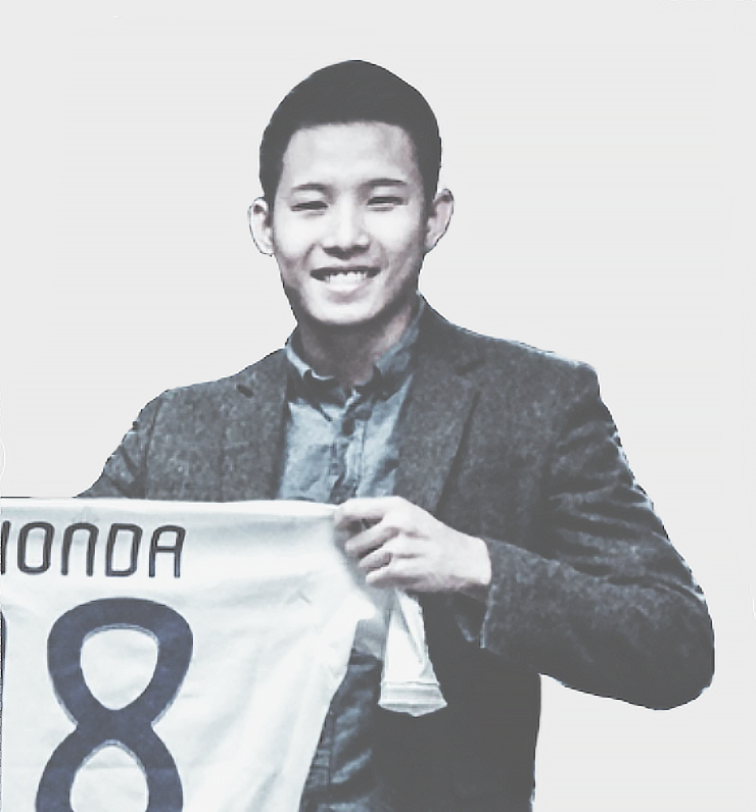
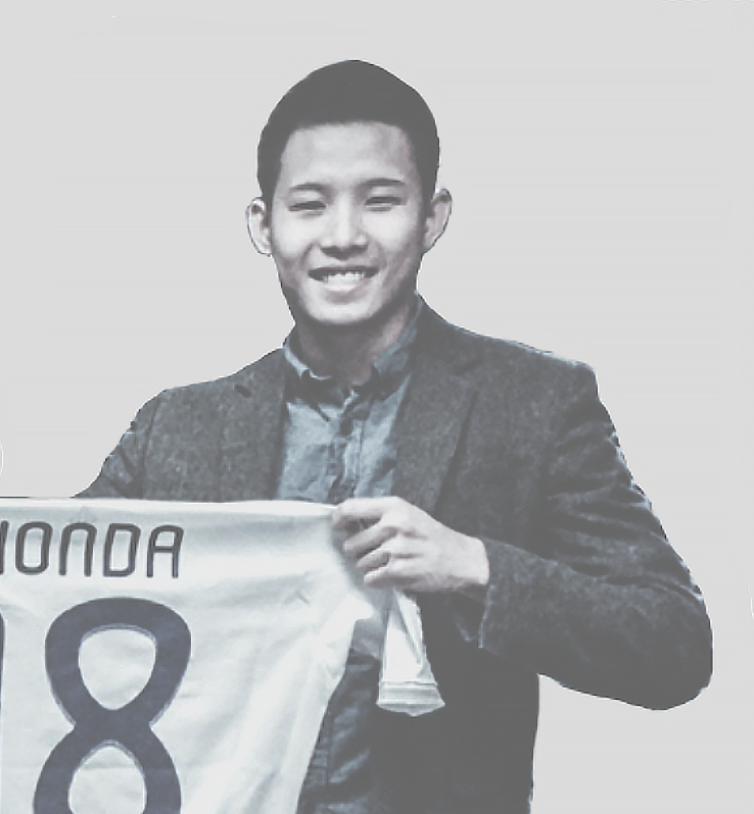
adjusted photo

diff --git a/index.html b/index.html
@@ -42,7 +42,7 @@
     <br>
     <br>
     <h3 id="h3-top"></h3>
-    <img src="image/pic3.png" class="img-circle img-responsive" alt="profile photo">
+    <img src="image/pic2.png" class="img-circle img-responsive" alt="profile picture">
     <h3></h3><br>
     <h3 class="type-animation"> < Welcome-to-my-website /></h3>
     <h3> </h3>

diff --git a/style.css b/style.css
@@ -30,7 +30,7 @@ body,h1,h2,h3,h4,h5,h6 {
 }
 
 h1, h2, h3 {
-    margin-top: px;
+    margin-top: 20px;
     margin-bottom: 35px;
 }
 
